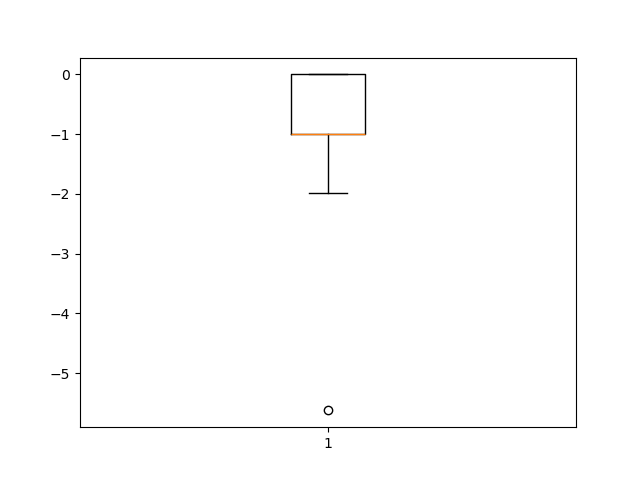
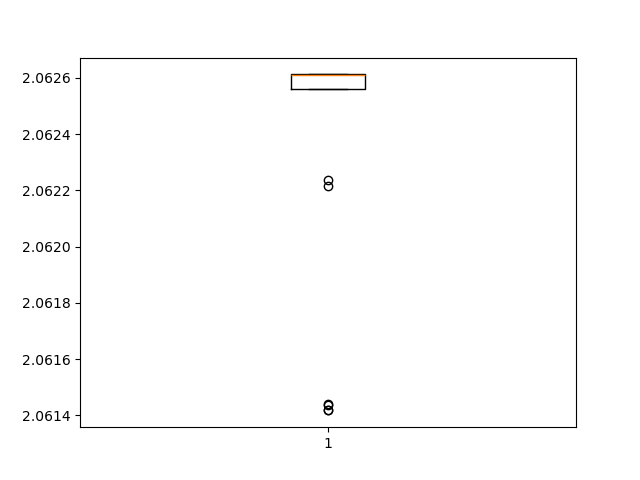
ajustes

diff --git a/rel_01_ag/src/algoritmo_genetico.py b/rel_01_ag/src/algoritmo_genetico.py
@@ -11,14 +11,20 @@ def algoritmo_genetico(config):
     pc = config["crossover_prob"]
     pm = config["mutation_prob"]
     selection_type = config["selection"]
-
+    fitness_type = config["function"]
+    elitismo = config.get("elitism", False)
+    
     pop = gerar_populacao(pop_size)
 
     melhores = []
     medias = []
 
     for _ in range(generations):
-        fit = [fitness(ind) for ind in pop]
+        fit = [fitness(ind, fitness_type) for ind in pop]
+
+        best_idx = fit.index(max(fit))
+        melhor_individuo = pop[best_idx]
+        melhor_fitness = fit[best_idx]
 
         melhores.append(max(fit))
         medias.append(sum(fit) / len(fit))
@@ -39,6 +45,12 @@ def algoritmo_genetico(config):
             f2 = mutacao(f2, pm)
 
             nova_pop.extend([f1, f2])
+            
+            if elitismo:
+                # substitui o pior pelo melhor da geração anterior
+                fit_nova = [fitness(ind, fitness_type) for ind in nova_pop]
+                pior_idx = fit_nova.index(min(fit_nova))
+                nova_pop[pior_idx] = melhor_individuo
 
         pop = nova_pop[:pop_size]
 

diff --git a/rel_01_ag/src/fitness.py b/rel_01_ag/src/fitness.py
@@ -1,11 +1,26 @@
 import math
 from .representacao import decode_individuo
 
-def rastrigin(individuo):
+def cross_in_tray(x, y):
+    term1 = math.sin(x) * math.sin(y)
+    term2 = math.exp(abs(100 - (math.sqrt(x**2 + y**2) / math.pi)))
+    
+    result = -0.0001 * (abs(term1 * term2) + 1) ** 0.1
+    return result
+
+def drop_wave(x, y):
+    r = math.sqrt(x**2 + y**2)
+    
+    numerator = 1 + math.cos(12 * r)
+    denominator = 0.5 * (x**2 + y**2) + 2
+    
+    result = - numerator / denominator
+    return result
+
+def fitness(individuo, func="cross"):
     x, y = decode_individuo(individuo)
-    return 20 + x**2 + y**2 - 10 * (math.cos(2*math.pi*x) + math.cos(2*math.pi*y))
 
-
-def fitness(individuo):
-    # Maximização → inverter sinal da Rastrigin
-    return -rastrigin(individuo)
+    if func == "cross":
+        return -cross_in_tray(x, y)
+    elif func == "drop":
+        return -drop_wave(x, y)

diff --git a/rel_01_ag/experiments/run_experiments.py b/rel_01_ag/experiments/run_experiments.py
@@ -23,6 +23,10 @@ def run():
             exec_results.append(res["melhor_fitness"])
 
         stats = calcular_estatisticas(exec_results)
+        
+        # Pode ser fixafo o population_size, generations. Pode alterar as configurações para diferentes crossover_prob, mutation_prob, selection e com ou sem elitismo (adicinar a propriedade elitismo)
+        
+        # Figuras em formato vetorial
 
         print(f"{file} -> {stats}")
 

diff --git a/rel_01_ag/src/representacao.py b/rel_01_ag/src/representacao.py
@@ -8,7 +8,7 @@ def decode_individuo(individuo):
     x_bin = individuo[:16]
     y_bin = individuo[16:]
 
-    x = bin_to_real(x_bin, -5, 5)
-    y = bin_to_real(y_bin, -5, 5)
+    x = bin_to_real(x_bin, -10, 10)
+    y = bin_to_real(y_bin, -10, 10)
 
     return x, y
